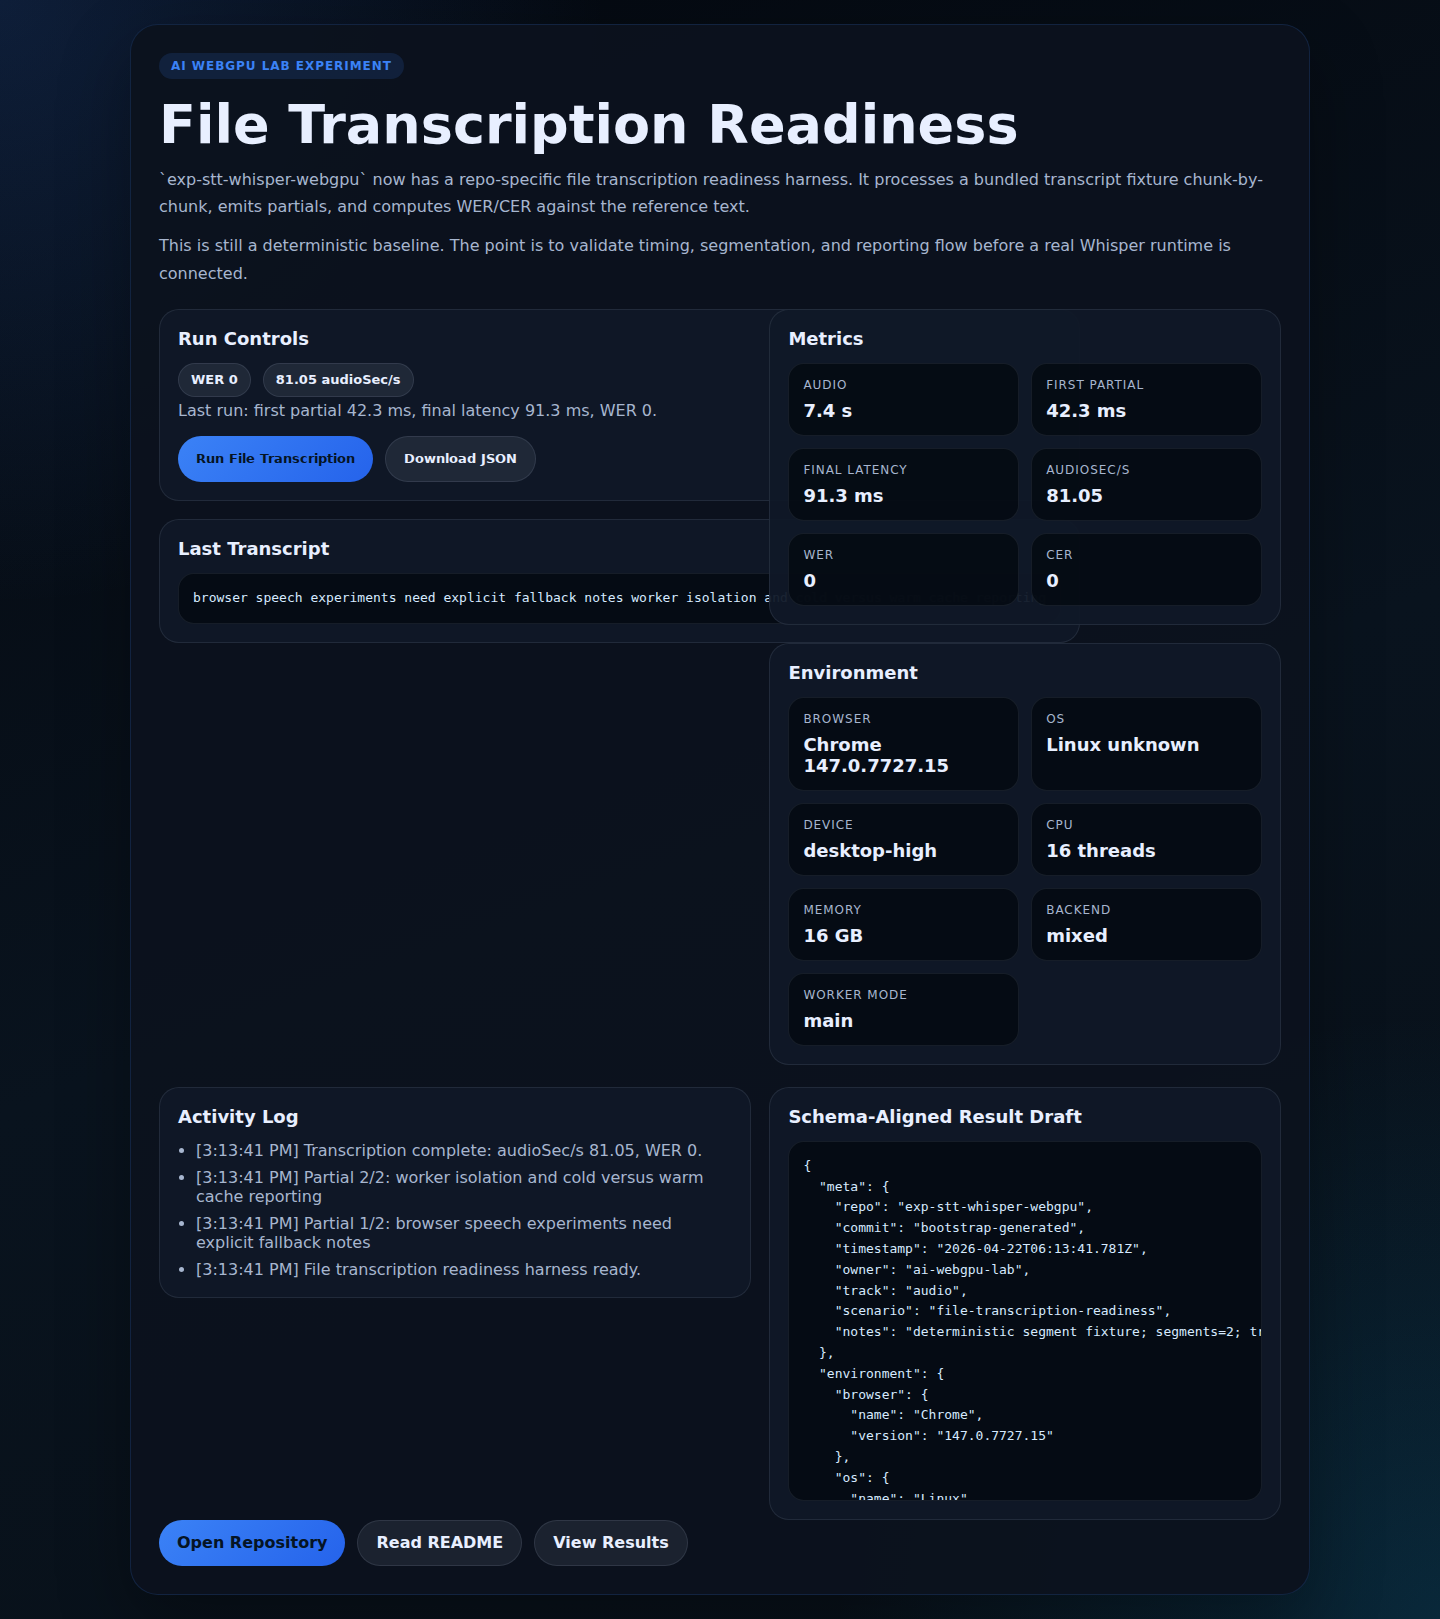
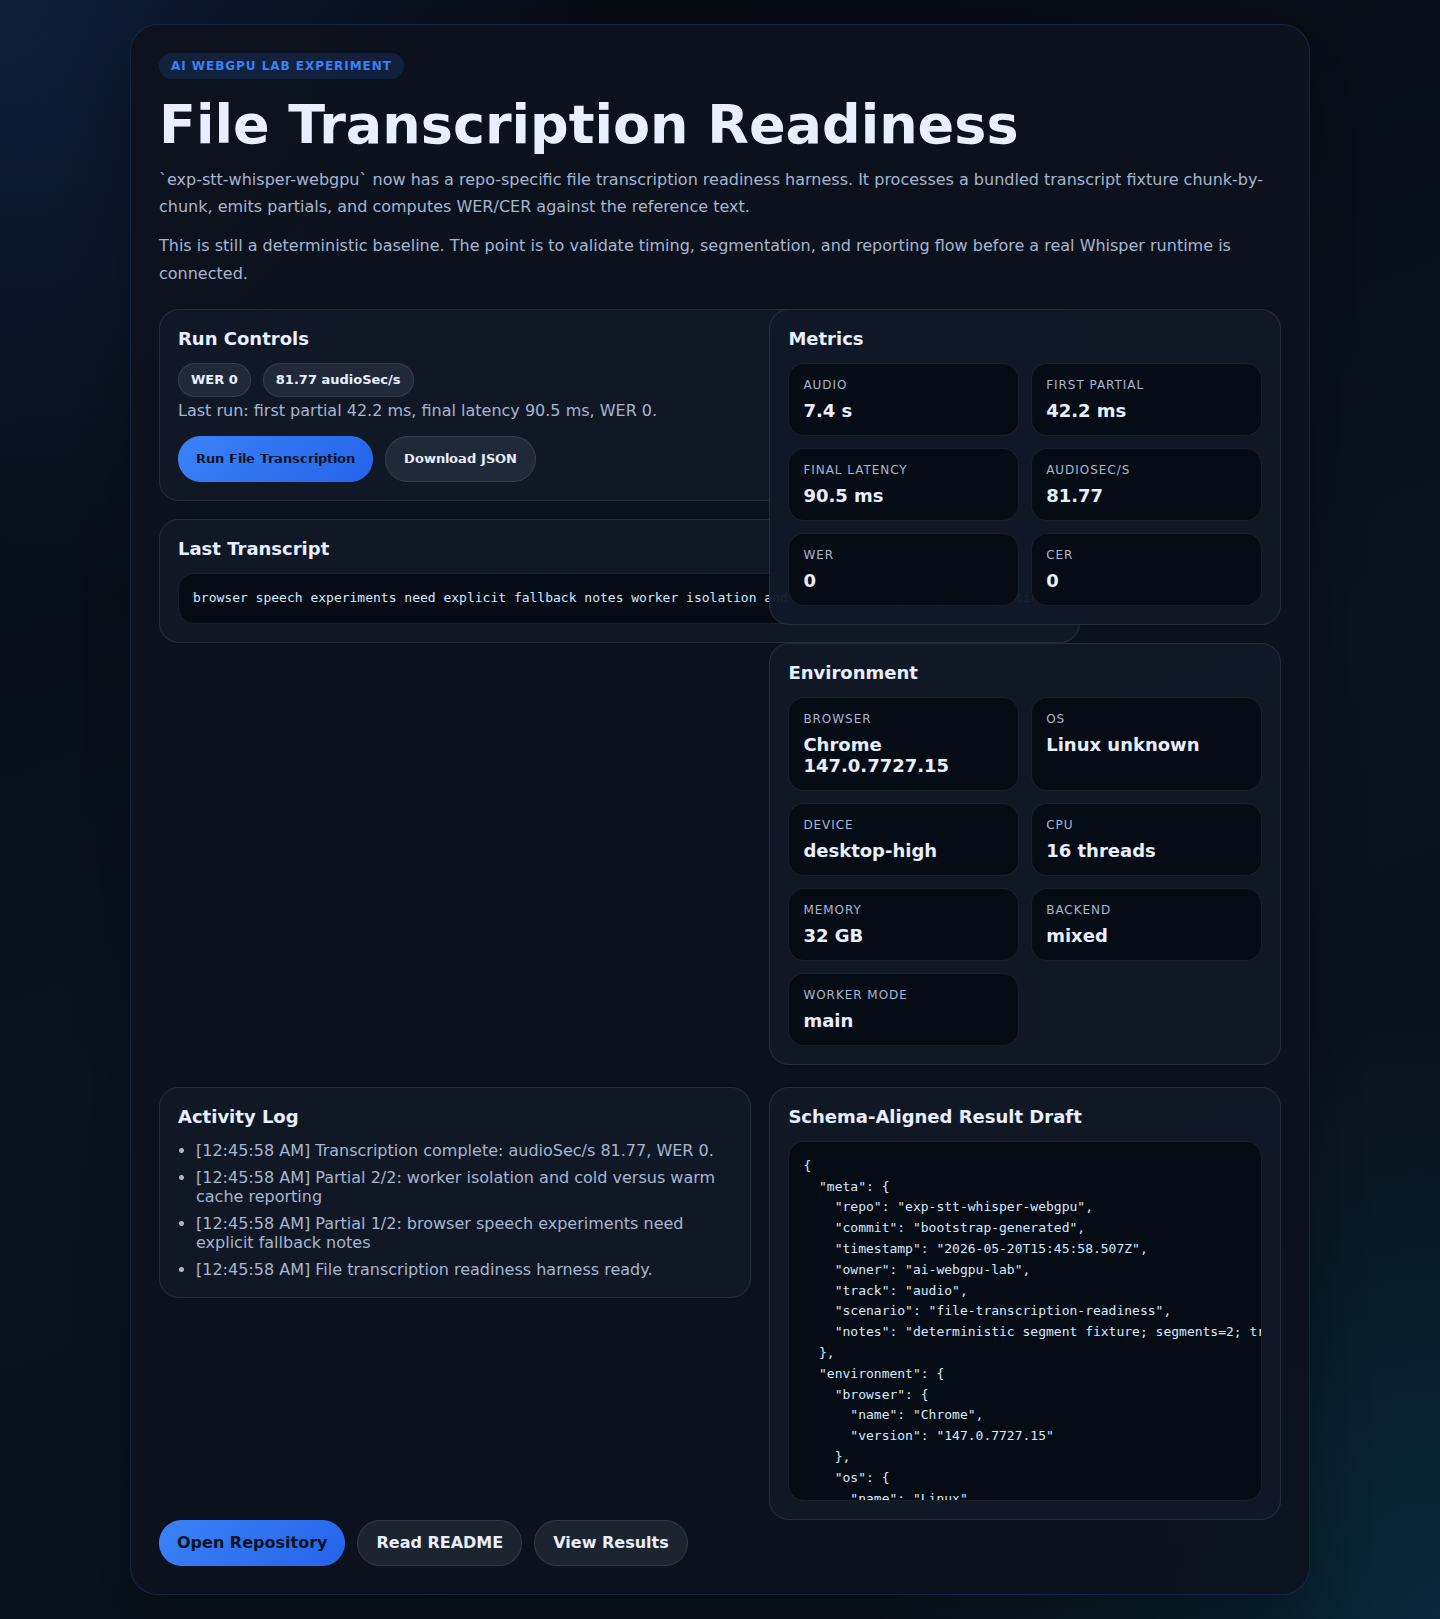
Record verified Pages baseline results

Changed region(s): [[0.125, 0.7103, 0.5, 0.803]]

diff --git a/RESULTS.md b/RESULTS.md
@@ -2,8 +2,8 @@
 
 ## 1. 실험 요약
 - 저장소: exp-stt-whisper-webgpu
-- 커밋 해시: 5e875c5
-- 실험 일시: 2026-04-22T06:13:41.781Z -> 2026-04-22T06:13:41.781Z
+- 커밋 해시: 999a1cd
+- 실험 일시: 2026-05-20T15:45:58.507Z -> 2026-05-20T15:45:58.507Z
 - 담당자: ai-webgpu-lab
 - 실험 유형: `audio`
 - 상태: `success`
@@ -26,7 +26,7 @@
 - 장치명: Linux x86_64
 - device class: `desktop-high`
 - CPU: 16 threads
-- 메모리: 16 GB
+- 메모리: 32 GB
 - 전원 상태: `unknown`
 
 ### GPU / 실행 모드
@@ -43,7 +43,7 @@
 - 입력 프로필: 7.4s-2-segments
 - 데이터 크기: deterministic segment fixture; segments=2; transcriptLength=15; automation=playwright-chromium
 - dataset: transcript-fixture-v1
-- model_id 또는 renderer: -
+- model_id 또는 renderer: transcript-fixture-v1
 - 양자화/정밀도: -
 - resolution: -
 - context_tokens: -
@@ -51,26 +51,26 @@
 
 ## 5. 측정 지표
 ### 공통
-- time_to_interactive_ms: 176.2 ms
-- init_ms: 91.3 ms
+- time_to_interactive_ms: 206.9 ms
+- init_ms: 90.5 ms
 - success_rate: 1
-- peak_memory_note: 16 GB reported by browser
+- peak_memory_note: 32 GB reported by browser
 - error_type: -
 
-### STT
-- audio_sec_per_sec: 81.05
-- first_partial_ms: 42.3 ms
-- final_latency_ms: 91.3 ms
+### STT / Voice
+- audio_sec_per_sec: 81.77
+- first_partial_ms: 42.2 ms
+- final_latency_ms: 90.5 ms
 - wer: 0
 - cer: 0
 
 ## 6. 결과 표
 | Run | Scenario | Backend | Cache | Mean | P95 | Notes |
 |---|---|---:|---:|---:|---:|---|
-| 1 | File Transcription | mixed | cold | 81.05 | 91.3 | first_partial=42.3 ms, WER=0 |
+| 1 | File Transcription | mixed | cold | 81.77 | 90.5 | first_partial=42.2 ms, WER=0 |
 
 ## 7. 관찰
-- partial emission은 42.3 ms에 시작됐고 최종 latency는 91.3 ms였다.
+- partial emission은 42.2 ms에 시작됐고 최종 latency는 90.5 ms였다.
 - deterministic transcript fixture 기준 WER=0, CER=0가 기록됐다.
 - playwright-chromium로 수집된 automation baseline이며 headless=true, browser=Chromium 147.0.7727.15.
 - 실제 runtime/model/renderer 교체 전 deterministic harness 결과이므로, 절대 성능보다 보고 경로와 재현성 확인에 우선 의미가 있다.
